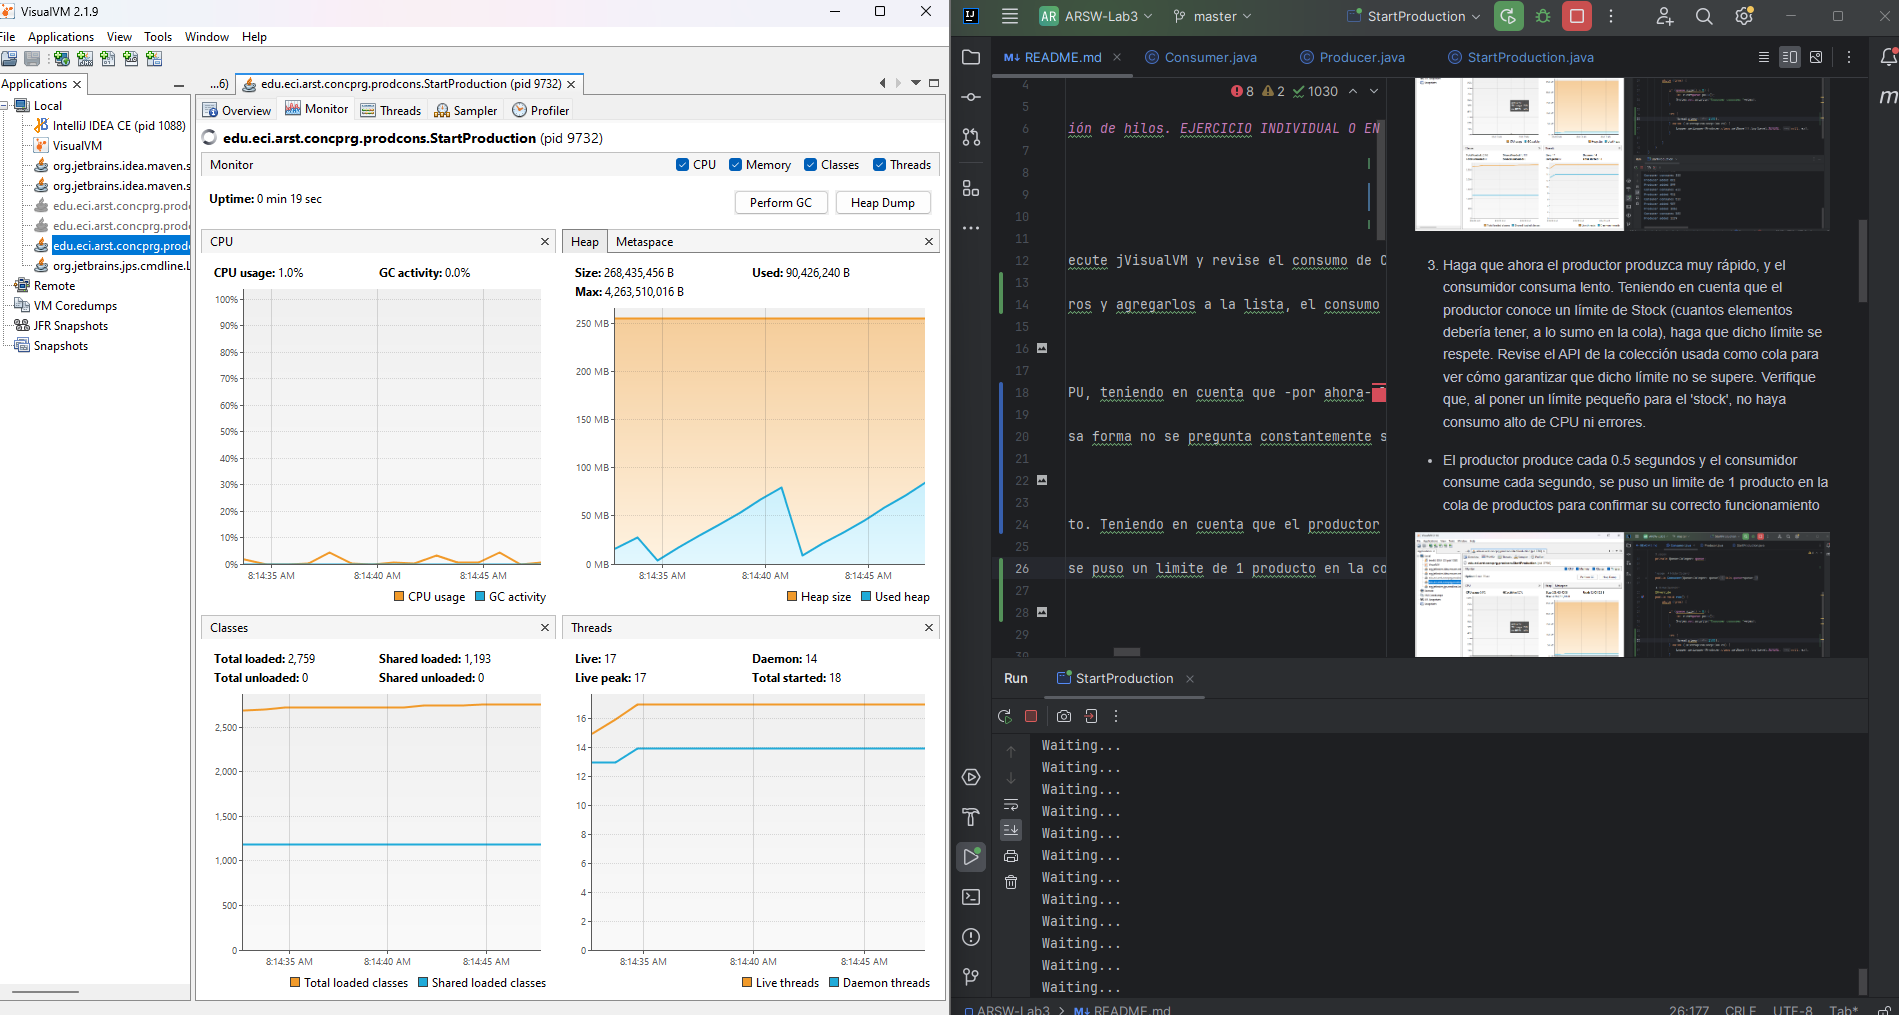
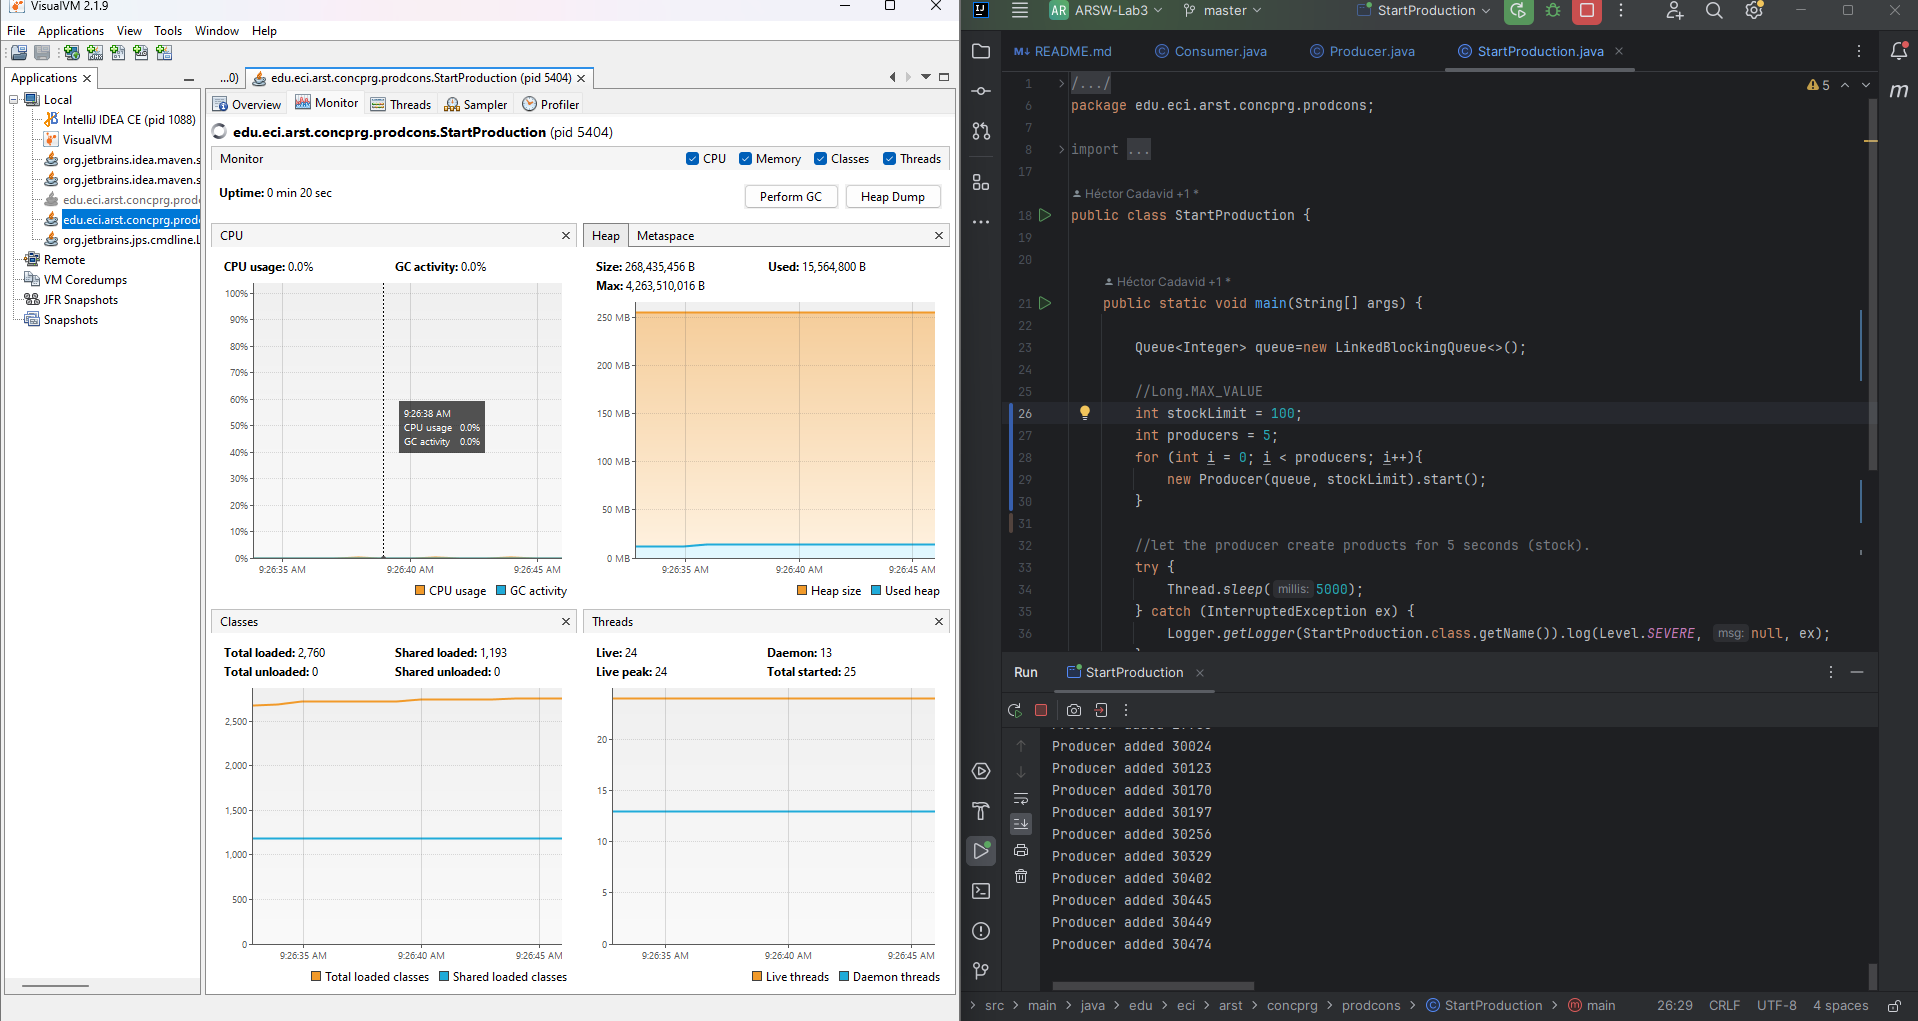
Parte I Final

diff --git a/src/main/java/edu/eci/arst/concprg/prodcons/Producer.java b/src/main/java/edu/eci/arst/concprg/prodcons/Producer.java
@@ -17,7 +17,6 @@ import java.util.logging.Logger;
 public class Producer extends Thread {
 
     private Queue<Integer> queue = null;
-
     private int dataSeed = 0;
     private Random rand=null;
     private final long stockLimit;
@@ -30,21 +29,27 @@ public class Producer extends Thread {
 
     @Override
     public void run() {
-        while (true) {
-            if (queue.size() < stockLimit){
+        while (true){
+            synchronized (queue){
+                while (queue.size() >= stockLimit) {
+                    try{
+                        queue.wait();
+                    }catch (InterruptedException e){
+                        throw new RuntimeException(e);
+                    }
+                }
                 dataSeed = dataSeed + rand.nextInt(100);
                 System.out.println("Producer added " + dataSeed);
                 queue.add(dataSeed);
 
                 try {
-                    Thread.sleep(500);
+                    Thread.sleep(10);
                 } catch (InterruptedException ex) {
                     Logger.getLogger(Producer.class.getName()).log(Level.SEVERE, null, ex);
                 }
-            } else{
-                System.out.println("Waiting...");
-            }
 
+                queue.notifyAll();
+            }
         }
     }
 }

diff --git a/src/main/java/edu/eci/arst/concprg/prodcons/Consumer.java b/src/main/java/edu/eci/arst/concprg/prodcons/Consumer.java
@@ -16,27 +16,26 @@ import java.util.logging.Logger;
 public class Consumer extends Thread{
     
     private Queue<Integer> queue;
-    
-    
+
     public Consumer(Queue<Integer> queue){
         this.queue=queue;        
     }
     
     @Override
     public void run() {
-        while (true) {
-
-            if (queue.size() > 0) {
-                int elem=queue.poll();
-                System.out.println("Consumer consumes "+elem);                                
+        while (true){
+            synchronized (queue){
+                while (queue.isEmpty()) {
+                    try{
+                        queue.wait();
+                    }catch (InterruptedException e){
+                        throw new RuntimeException(e);
+                    }
+                }
+                int elem = queue.poll();
+                System.out.println("Consumer consumes "+elem);
+                queue.notifyAll();
             }
-
-            try {
-                Thread.sleep(1000);
-            } catch (InterruptedException ex) {
-                Logger.getLogger(Producer.class.getName()).log(Level.SEVERE, null, ex);
-            }
-            
         }
     }
 }

diff --git a/src/main/java/edu/eci/arst/concprg/prodcons/StartProduction.java b/src/main/java/edu/eci/arst/concprg/prodcons/StartProduction.java
@@ -23,18 +23,22 @@ public class StartProduction {
         Queue<Integer> queue=new LinkedBlockingQueue<>();
 
         //Long.MAX_VALUE
-        new Producer(queue, 1).start();
-        
+        int stockLimit = 100;
+        int producers = 5;
+        for (int i = 0; i < producers; i++){
+            new Producer(queue, stockLimit).start();
+        }
+
         //let the producer create products for 5 seconds (stock).
         try {
             Thread.sleep(5000);
         } catch (InterruptedException ex) {
             Logger.getLogger(StartProduction.class.getName()).log(Level.SEVERE, null, ex);
         }
-        
-        
-        new Consumer(queue).start();
+        int consumers = 5;
+        for (int i = 0; i < consumers; i++) {
+            new Consumer(queue).start();
+        }
     }
-    
 
 }

diff --git a/README.md b/README.md
@@ -11,19 +11,19 @@ Control de hilos con wait/notify. Productor/consumidor.
 
 1. Revise el funcionamiento del programa y ejecútelo. Mientras esto ocurren, ejecute jVisualVM y revise el consumo de CPU del proceso correspondiente. A qué se debe este consumo?, cual es la clase responsable?
 
-- La clase responsable del consumo es Producer.java pues debe calcular los números y agregarlos a la lista, el consumo no es tan grande ya que esa clase duerme 1 segundo en cada iteración.
+- La clase responsable del consumo es Consumer.java pues constantemente consulta la lista de productos que no se llena rapidamente.
 
 ![](./img/media/parte1.1.png)
 
 2. Haga los ajustes necesarios para que la solución use más eficientemente la CPU, teniendo en cuenta que -por ahora- la producción es lenta y el consumo es rápido. Verifique con JVisualVM que el consumo de CPU se reduzca.
 
-- Ahora el productor espera 1 segundo y el consumidor espera 1.5 segundos, de esa forma no se pregunta constantemente si hay productos en la lista.
+- Ahora el productor espera en caso de que la cola esté llena y el consumidor espera en caso de que la cola esté vacia.
 
 ![](./img/media/parte1.2.png)
 
 3. Haga que ahora el productor produzca muy rápido, y el consumidor consuma lento. Teniendo en cuenta que el productor conoce un límite de Stock (cuantos elementos debería tener, a lo sumo en la cola), haga que dicho límite se respete. Revise el API de la colección usada como cola para ver cómo garantizar que dicho límite no se supere. Verifique que, al poner un límite pequeño para el 'stock', no haya consumo alto de CPU ni errores.
 
-- El productor produce cada 0.5 segundos y el consumidor consume cada segundo, se puso un limite de 1 producto en la cola de productos para confirmar su correcto funcionamiento
+- El productor produce cada 0.1 segundos, se puso un limite de 100 productos en la cola de productos, se están creando 5 productores y consumidores.
 
 ![](./img/media/parte1.3.png)
 
